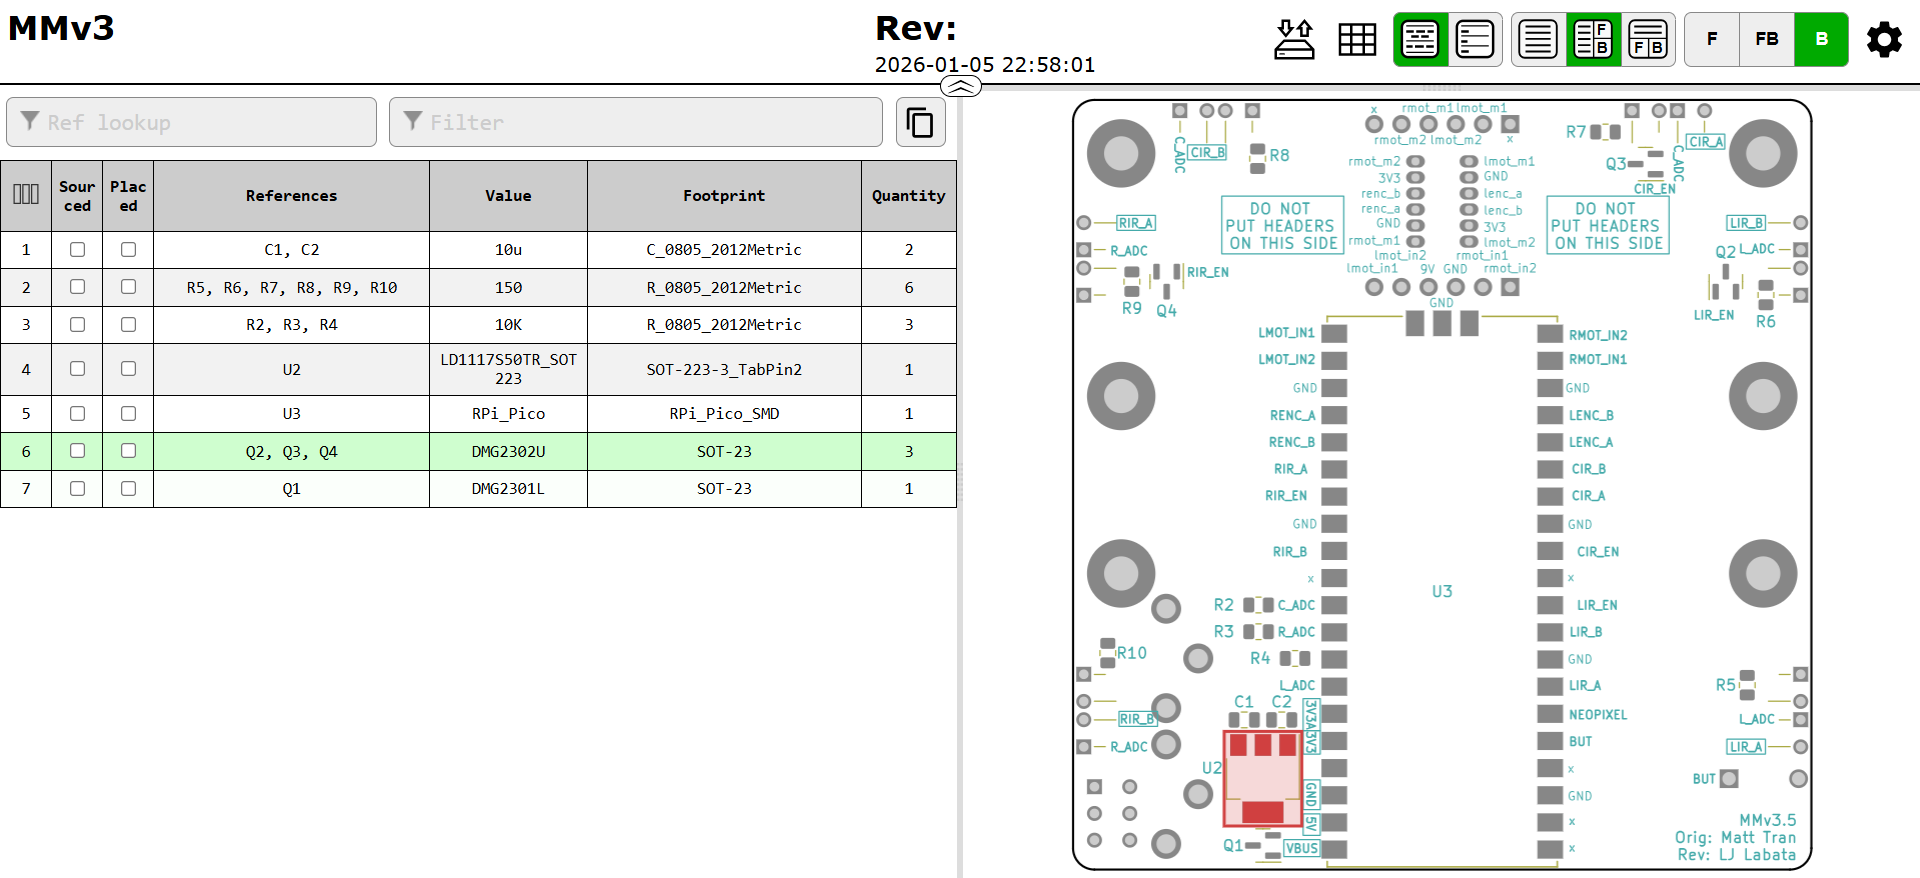
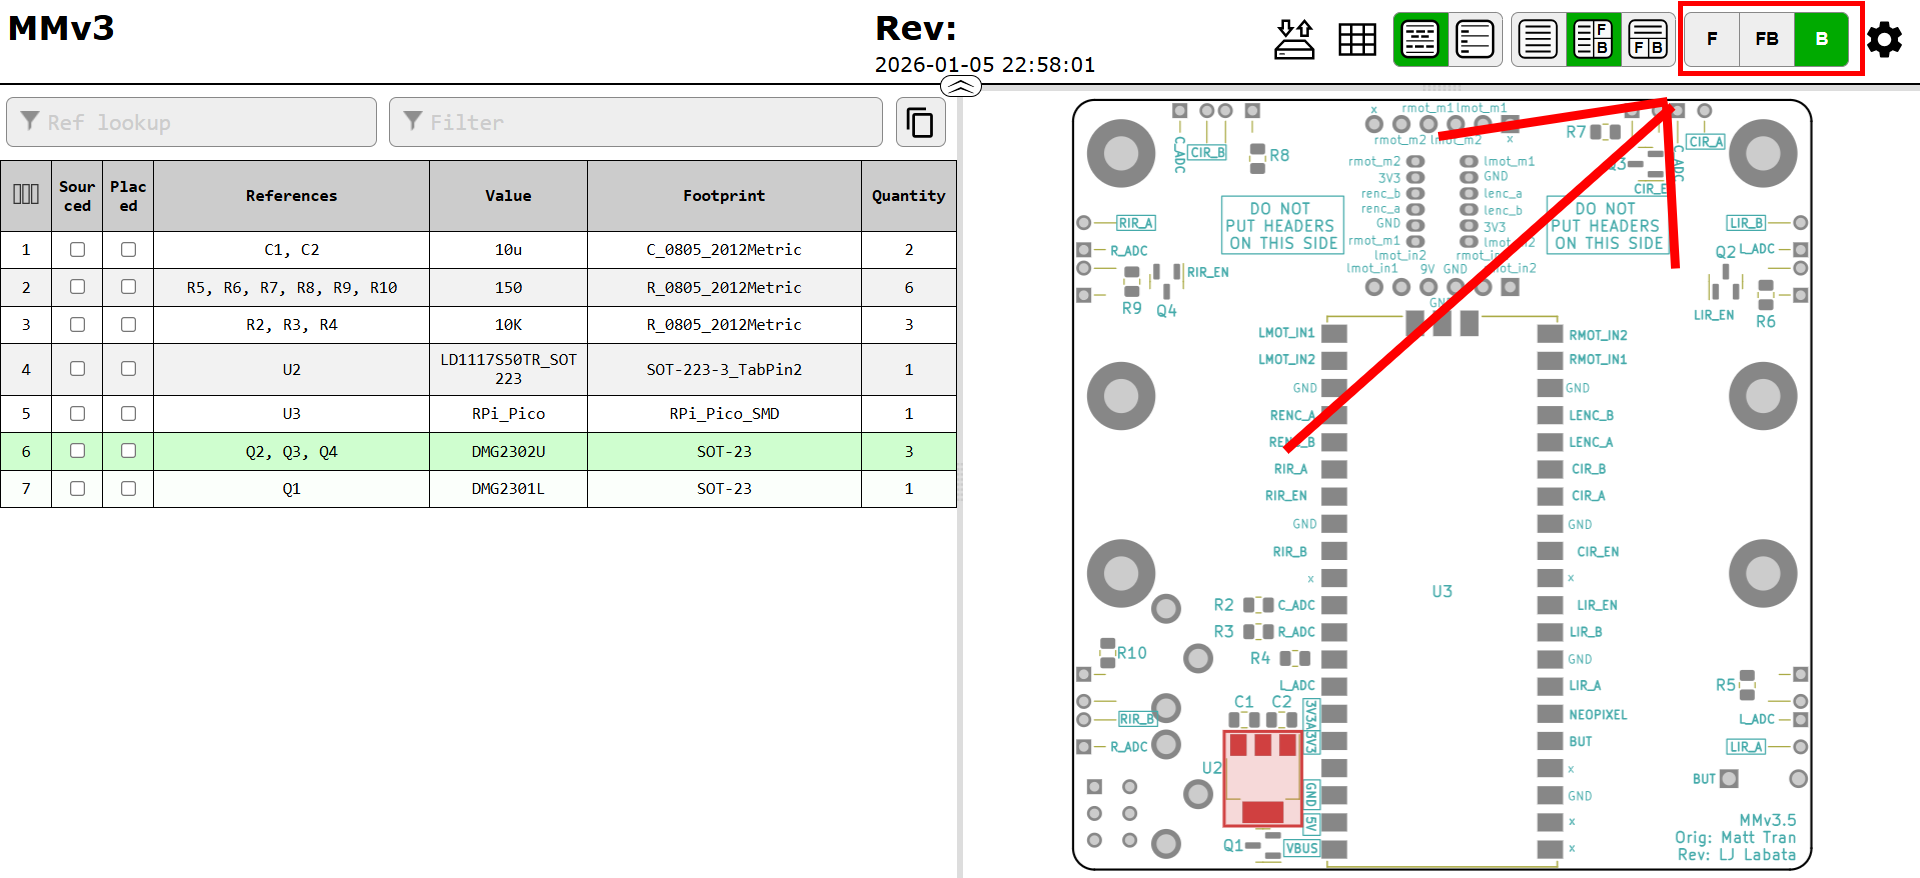
finished adding changes and updates to lab2 assembly

diff --git a/docs/lab2.md b/docs/lab2.md
@@ -1,18 +1,24 @@
 # Lab 2: Assembly
 
-PLUG YOUR PI PICO INTO YOUR COMPUTER TO MAKE SURE IT SHOWS UP IN YOUR FILE SYSTEM BEFORE YOU SOLDER IT :D
+## Quick Check
+
+First thing you should do before you move on with the rest of the lab is to plug your Pi Pico into your computer and make sure it shows up in your file system like so: 
+
+(NOTE: the image below shows a drive named CIRCUITPY but you probably will see a drive named RPI-RP2. This is expected)
+![Updated CIRCUITPY Drive Directory Example image](imgs/CIRCUITPY.PNG)
+*Updated CIRCUITPY Drive Directory Example image in Windows 10 File Explorer*
+
+If the Pi Pico when connected to your PC does not show up like the image above shows try a different cable. If that does not work, try a different PC. Finally, if all the above does not work ask your TA for help.
 
 ## Assembly
 
-Download the `ibom.html` from the [release](https://github.com/MrCroesus/MMv3/releases/download/MMv3.3/ibom.html) that matches your board revision and open it in your preferred browser. The interactive BOM (bill of materials) shows what parts are needed on your mouse's PCB (printed circuit board) and where they need to be placed.
+Download the `ibom.html` from the [release](https://github.com/charlessu800/MMv3/blob/better-debugging/releases/download/MMv3.5/ibom.html) and open it in your preferred browser. The interactive BOM (bill of materials) shows what parts are needed on your mouse's PCB (printed circuit board) and where they need to be placed. This html file will be very helpful when assembling your mouse.
 
-To see images of all parts, see the Google Drive link [here](https://drive.google.com/drive/folders/1rGae82BSrE_mvmMwKTBHT9P-unDKIKQj?usp=sharing).
-
-Also check the latest release for any manufacturing notes to make an older board functionally equivalent to the newest revision.
+To see images of all the individual parts, see the Google Drive link [here](https://drive.google.com/drive/folders/1rGae82BSrE_mvmMwKTBHT9P-unDKIKQj?usp=sharing).
 
 ### Reflow Soldering
 
-Let's start with the back of the PCB which is where the majority of parts are located. Click `B` in the top right to show just the back. Make sure it looks like below.
+Let's start with the back of the PCB which is where the majority of parts are located. In the `ibom.html` file you have downloaded then opened in your a browser, click `B` in the top right to show just the back (highlighted in red). Make sure it looks like below.
 
 <p align="center">
     <img height="250px" src="imgs/ibom_back.png"/>
@@ -38,32 +44,23 @@ Let's start by applying the solder paste using a **solder stencil**. Instead of 
     <a><b>Solder Paste Application Process</b></a>
 </p>
 
-Now it's time for component placement. Following the `ibom.html`, place all of the components for the back side. None of the symmetric components have polarity, so don't worry about part orientation. Tweezers will be very useful, but don't squeeze too hard or your component will go flying. When placing components, press down gently so that it digs into the paste a bit to prevent it from moving. Again, the process is quite forgiving so don't worry if your parts aren't perfectly aligned as solder surface tension will generally pull them into alignment.
+Now it's time for component placement. Following the `ibom.html`, place all of the components for the back side. None of the symmetric components have polarity, so don't worry about part orientation. Tweezers will be very useful, but don't squeeze too hard or your component will go flying. Again, the process is quite forgiving so don't worry if your parts aren't perfectly aligned as solder surface tension will generally pull them into alignment.
 
 <p align="center">
-    <img height="200px" src="imgs/stencil_align.jpg"/>
+    <img height="200px" src="imgs/place_cap.jpg"/>
+    <img height="200px" src="imgs/place_res.jpg"/>
+    <img height="200px" src="imgs/place_all.jpg"/>
     <br>
-    <a><b>Solder Paste Application Process</b></a>
+    <a><b>Component Placement</b></a>
 </p>
 
-<p align="center">
-    <img height="200px" src="imgs/stencil_applied.jpg"/>
-    <br>
-    <a><b>Solder Paste Application Process</b></a>
-</p>
-
-<p align="center">
-    <img height="200px" src="imgs/paste_applied.jpg"/>
-    <br>
-    <a><b>Solder Paste Application Process</b></a>
-</p>
 
 
 > [!IMPORTANT]  
 > Before moving on, double check that you correctly placed each component in the right place and the right orientation. Do so by checking below each box:
-> - [ ] Are your MOSFET transistors in the right place? Remember that there are 3 x n-channel MOSFETs (Q2,Q3,Q4) and **1 x p-channel MOSFET (Q1)**.  
-> - [ ] (Add more things to visually confirm...)
-> Finally you are ready to show one your TAs to give it one last lookover before getting reflowed.
+> - [ ] Are your MOSFET transistors in the right place? Remember that there are 3 x n-channel MOSFETs (Q2,Q3,Q4) and **1 x p-channel MOSFET (Q1)**.
+> - Now you are ready to show one of your TAs to give it one last lookover before getting reflowed.
+
 
 
 Finally, let's reflow the solder! Throw your board into the reflow oven, load up the correct profile, and wait. With any luck, all of your joints will melt and the back side of your board will be done.
@@ -74,15 +71,6 @@ Finally, let's reflow the solder! Throw your board into the reflow oven, load up
     <br>
     <a><b>Reflow</b></a>
 </p>
-
-Sweet, so you got your newly reflowed pcb back. Before moving on to hand soldering the rest of the micromouse see the important testing checkpoint below.
-
-
-> [!IMPORTANT]  
-> #### Testing Checkpoint #1 (COMPLETE THIS FIRST! Before moving on)
-> - [ ] Connect your micromouse's pi pico to your computer and check that ______
-> - [ ] Using the multimeter in lab probe these pads ______
-> - [ ] Ensure that connections are made everywhere!
 
 
 ### Hand Soldering
@@ -103,6 +91,16 @@ Let's start off with the mouse's main PCB. Click `F`, located in the top right o
     <a><b>iBOM Front</b></a>
 </p>
 
+You can hand solder all the components on the Front side of the PCB in any order but there is a preferred way to do so that will be less of a headache when soldering.
+- D2 - D13 (THT LEDs)
+- SW1, SW2 (THT Switches)
+- DRV8833 (Motor Drive Module)
+- J3, J4 (ZH Series JST 6-pin connector)
+- J2, J5 (Receptacle Connector 0.100" (2.54mm) Through Hole Gold)
+- J1 (Keystone_593_594 Battery Contact Snaps)
+
+This is also the order in how the lab has been laid out.
+
 First we solder the IR LEDs. Note that the silkscreen should denote the polarity. The longer line corresponds to the longer leg of the IR LEDs. They also need to be mounted at a right angle so don't be afraid to bend them. Splaying the leads outward should hold them in place while you apply solder.
 
 <p align="center">
@@ -112,29 +110,16 @@ First we solder the IR LEDs. Note that the silkscreen should denote the polarity
     <a><b>IR LEDs</b></a>
 </p>
 
-
-Next let's solder the SMD resistors and SMD capacitors. These SMD components use the same soldering process except there's no hole to stick the part through. Some of the parts do have polarity, so if you're unsure make sure to ask your mentor.
-
+Next, solder the SW1, SW2 (THT Switches). These components do now have polarity so their orientation does not matter. Additionally, you should solder these switches such that they are on the Front side of the board but if you do not that is okay. They still will work.
 <p align="center">
-    <img height="200px" src="imgs/hand_1.jpg"/>
-    <img height="200px" src="imgs/hand_2.jpg"/>
+    <img height="250px" src="imgs/lab2/tht_switches.jpg"/>
     <br>
-    <a><b>Some SMD Components</b></a>
+    <a><b>THT Switches</b></a>
 </p>
 
-Finally, let's add the bigger components! We saved these for last becuase if we did them any sooner it would make soldering the rest of the board more awkward. This is because the bigger components, like the battery connectors and motor connectors, would make it almost impossible to lay the pcb flat on a table.
+Now, the DRV8833 motor driver board. Solder the two 6-pin headers onto the board and bridge the `en` pads as shown in the following pictures. Make sure when soldering the two 6-pin headers that you are placing them on the correct side of the board. It should look like the final image below where the `en` pads are on top.
 
-> [!NOTE]
-> Be sure that when you solder these bigger components, motor connectors and such, you place them on the correct side of the board! That side is the side opposite of the pi pico. DO NOT solder these bigger components on the same side as the green pi pico. You will save yourself a lot of headaches :D
-
-
-<p align="center">
-    <img height="200px" src="imgs/hand_3.jpg"/>
-    <br>
-    <a><b>The last THT Components Connectors</b></a>
-</p>
-
-Lastly, the DRV8833 motor driver board. Solder the two 6-pin headers onto the board and bridge the `en` pads as shown in the following pictures. The technique that I find works best is to solder just one pin first with the part in any orientation. Then reheat that joint while pressing on the part to move it into perfect alignment. Finally, do the rest of the pins.
+The technique that I find works best is to solder just one pin first with the part in any orientation. Then reheat that joint while pressing on the part to move it into perfect alignment. Finally, do the rest of the pins.
 
 <p align="center">
     <img height="150px" src="imgs/DRV8833_4.jpg"/>
@@ -145,14 +130,81 @@ Lastly, the DRV8833 motor driver board. Solder the two 6-pin headers onto the bo
     <a><b>DRV8833 Motor Driver Assembly</b></a>
 </p>
 
+Finally, let's add the connector components! We saved these for last because if we did them any sooner it would make soldering the rest of the board more awkward. This is because the bigger components, like the battery connectors and motor connectors, would make it almost impossible to lay the pcb flat on a table.
+
+> [!NOTE]
+> Be sure that when you solder these bigger components, motor connectors and such, you place them on the correct side of the board, the Front side. That side is the side opposite of the pi pico. DO NOT solder these bigger components on the same side as the green pi pico. You will save yourself a lot of headaches :D
+
+Lets start by soldering first the J3, J4 (ZH Series JST 6-pin connector) components
+
+<p align="center">
+    <img height="200px" src="imgs/lab2/white_connectors.jpg"/>
+    <br>
+    <a><b>J3, J4 (ZH Series JST 6-pin connector)</b></a>
+</p>
+
+Next solder first the J2, J5 (Receptacle Connector 0.100" (2.54mm) Through Hole Gold)
+
+<p align="center">
+    <img height="200px" src="imgs/lab2/black_connectors.jpg"/>
+    <br>
+    <a><b>J2, J5 (Receptacle Connector 0.100" (2.54mm) Through Hole Gold)
+</b></a>
+</p>
+
+Now let's solder the J1 (Keystone_593_594 Battery Contact Snaps) connectors. When soldering these connectors it is advised to take the two Battery Contact Snaps, positive and negative, and attach them to a 9V battery first before placing them on the board. See the images below. This is to make sure that when you solder them onto the board they are aligned. You can solder the Battery Contact Snaps while the 9V battery is still connected to them.
+
+<p align="center">
+    <img height="200px" src="imgs/lab2/use_battery_align.jpg"/>
+    <img height="200px" src="imgs/lab2/final_battery.jpg"/>
+    <img height="200px" src="imgs/lab2/final_wo_battery.jpg"/>
+    <br>
+    <a><b>Using a 9V Battery for Alignment of the J1 (Keystone_593_594 Battery Contact Snaps)
+</b></a>
+</p>
+
+Additionally, make sure that you place the two Battery Contact Snaps in each of their respectative places. 
+
+<p align="center">
+    <img height="200px" src="imgs/lab2/final_wo_battery.jpg"/>
+    <br>
+    <a><b>Good Placement
+</b></a>
+</p>
+
+<p align="center">
+    <img height="200px" src="imgs/lab2/bad_battery_pins.jpg"/>
+    <br>
+    <a><b>Bad Placement
+</b></a>
+</p>
+
 With any luck, your board should be finished! At least all the soldering :)
 
 <p align="center">
     <img height="250px" src="imgs/pcb_done.jpg"/>
     <br>
-    <a><b>Assembled PCB</b></a>
+    <a><b>PCB with completed soldered components</b></a>
 </p>
 
+### Optional SMD LED Component
+
+We made the D1 Neopixel LED component optional as it's one of the hardest parts to solder. It is the only hand soldered SMD component. The Neopixel LED uses the same soldering process except there's no hole to stick the part through. Please see this [video (skip to 2:16)](https://youtu.be/RODp8HSlFPA?t=136) on soldering such components if you want to give this a try. You will need tweezers.
+
+<p align="center">
+    <img height="200px" src="imgs/lab2/process_smd_led.jpg"/>
+    <br>
+    <a><b>Part of the process to solder D1 Neopixel LED with tweezers</b></a>
+</p>
+
+> [!NOTE]  
+> The Neopixel has a polarity or in other words a specific orientation that it must be placed in when soldering. You must place this part correctly in order for this Neopixel LED to work. Align this triangular indent on the Neopixel as shown below when soldering, highlighted in red. 
+
+<p align="center">
+    <img height="200px" src="imgs/lab2/smd_led_orientation.jpg"/>
+    <br>
+    <a><b>SMD LED Proper Orientation</b></a>
+</p>
 
 ### Partial Mechanical Assembly
 
@@ -165,6 +217,20 @@ We will only partially assembly the mechanical parts of the mouse first before a
     <a><b>Partial Assembly</b></a>
 </p>
 
+> [!IMPORTANT]  
+> Make sure that when you plug in the motor cables that they are plugged in all the way. Below are what a good motor cable plugged connection looks like and a bad one. Do this before running the sanity check code.
+
+<p align="center">
+    <img height="200px" src="imgs/lab2/good_motor_plug.jpg"/>
+    <br>
+    <a><b>Good - Motor Cables plugged in all the way</b></a>
+</p>
+
+<p align="center">
+    <img height="200px" src="imgs/lab2/bad_motor_plug.jpg"/>
+    <br>
+    <a><b>Bad - Motor Cables not plugged in all the way</b></a>
+</p>
 
 ## Sanity Check
 
